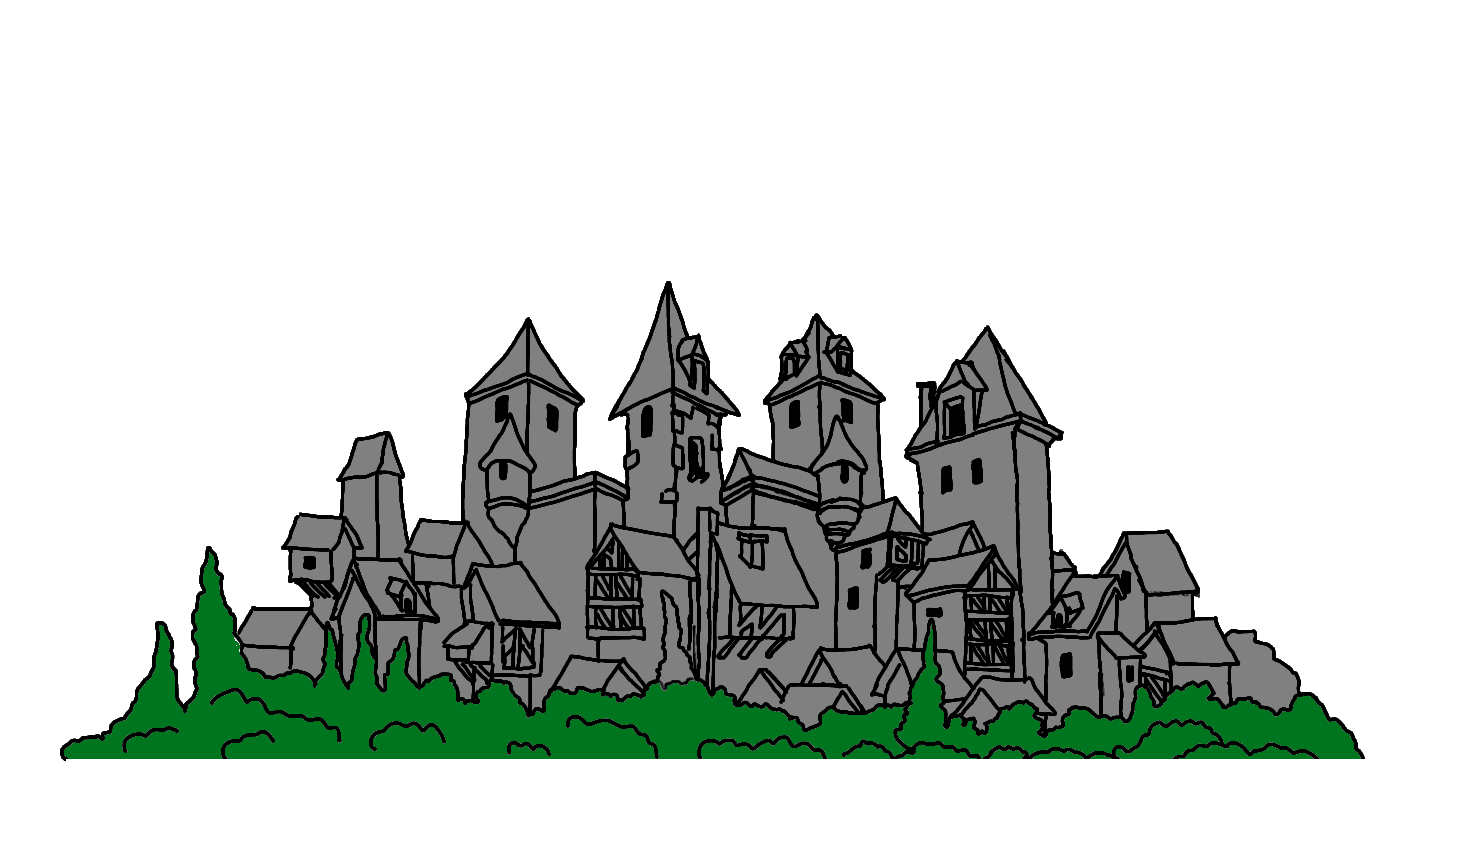
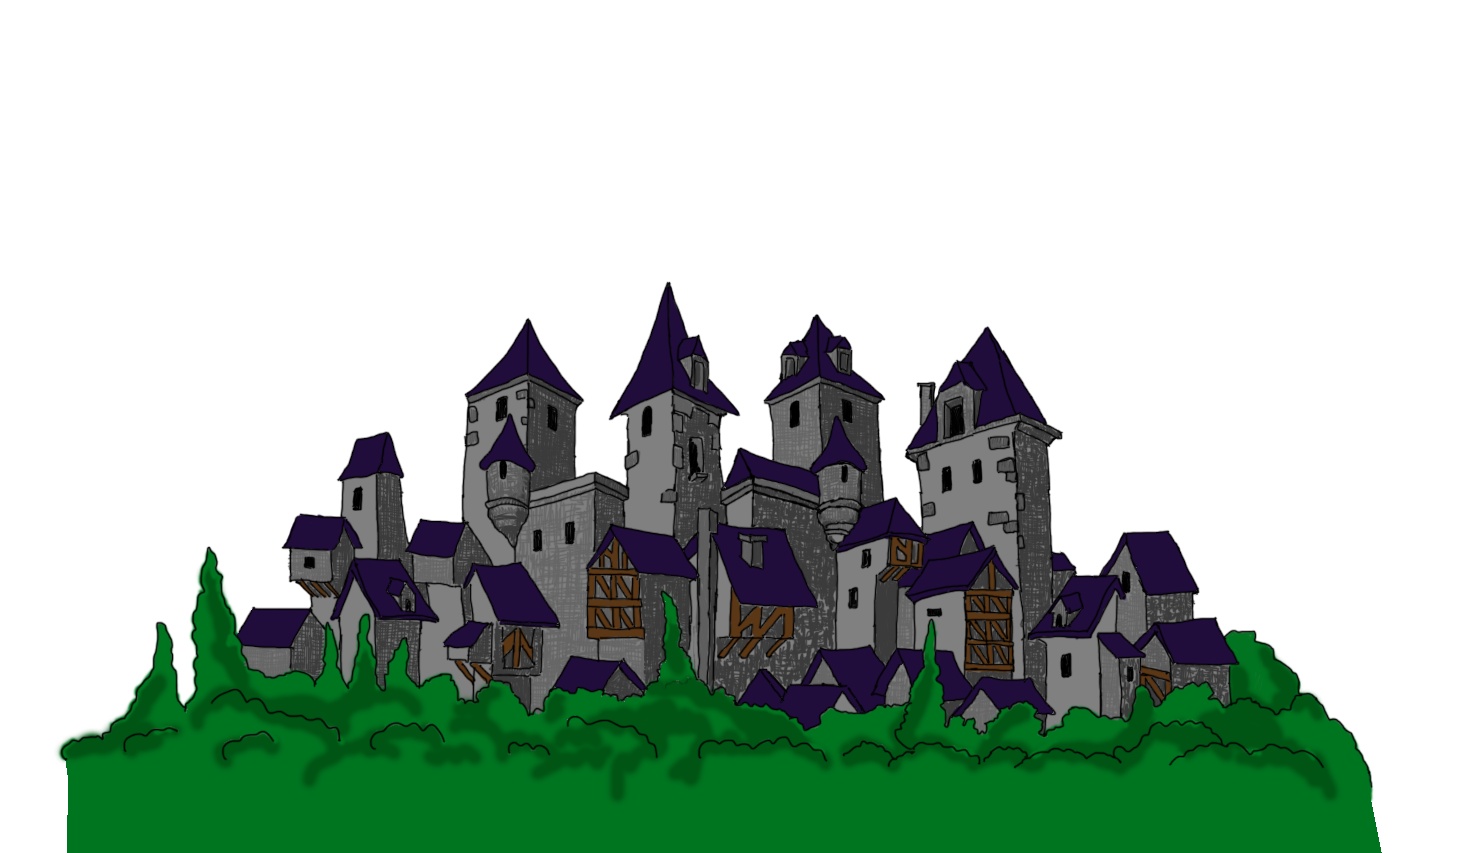
Add new background, castle, small changes

Changed region(s): [[0.0311, 0.3353, 0.9318, 1.0]]

diff --git a/public_html/scripts/bullet.js b/public_html/scripts/bullet.js
@@ -41,7 +41,6 @@ var BulletsMechanism = class {
             context.clearRect(x, y, 1, 1);
             terrain.chunks[y][x].visible = false;
         }
-
         worms.hitWorm(x, y);
     }
     
@@ -56,3 +55,15 @@ var BulletsMechanism = class {
     }
 }
 
+
+var Bullet = class {
+    constructor(mass, gravity, strength, angle) {
+        var mass = mass;
+        var gravity = gravity;
+        var strength = strength;
+        var angle = angle;
+        var chunks = [];
+        var xPos;
+        var yPos;
+    }
+};

diff --git a/public_html/styles/main.css b/public_html/styles/main.css
@@ -10,6 +10,8 @@ html, body {
     width: 100%;
     height: 100%;
     display: flex;
+    background-image: url("../images/Castle-Sky-Background.png");
+    background-size: cover;
 }
 
 #gameBoard {
